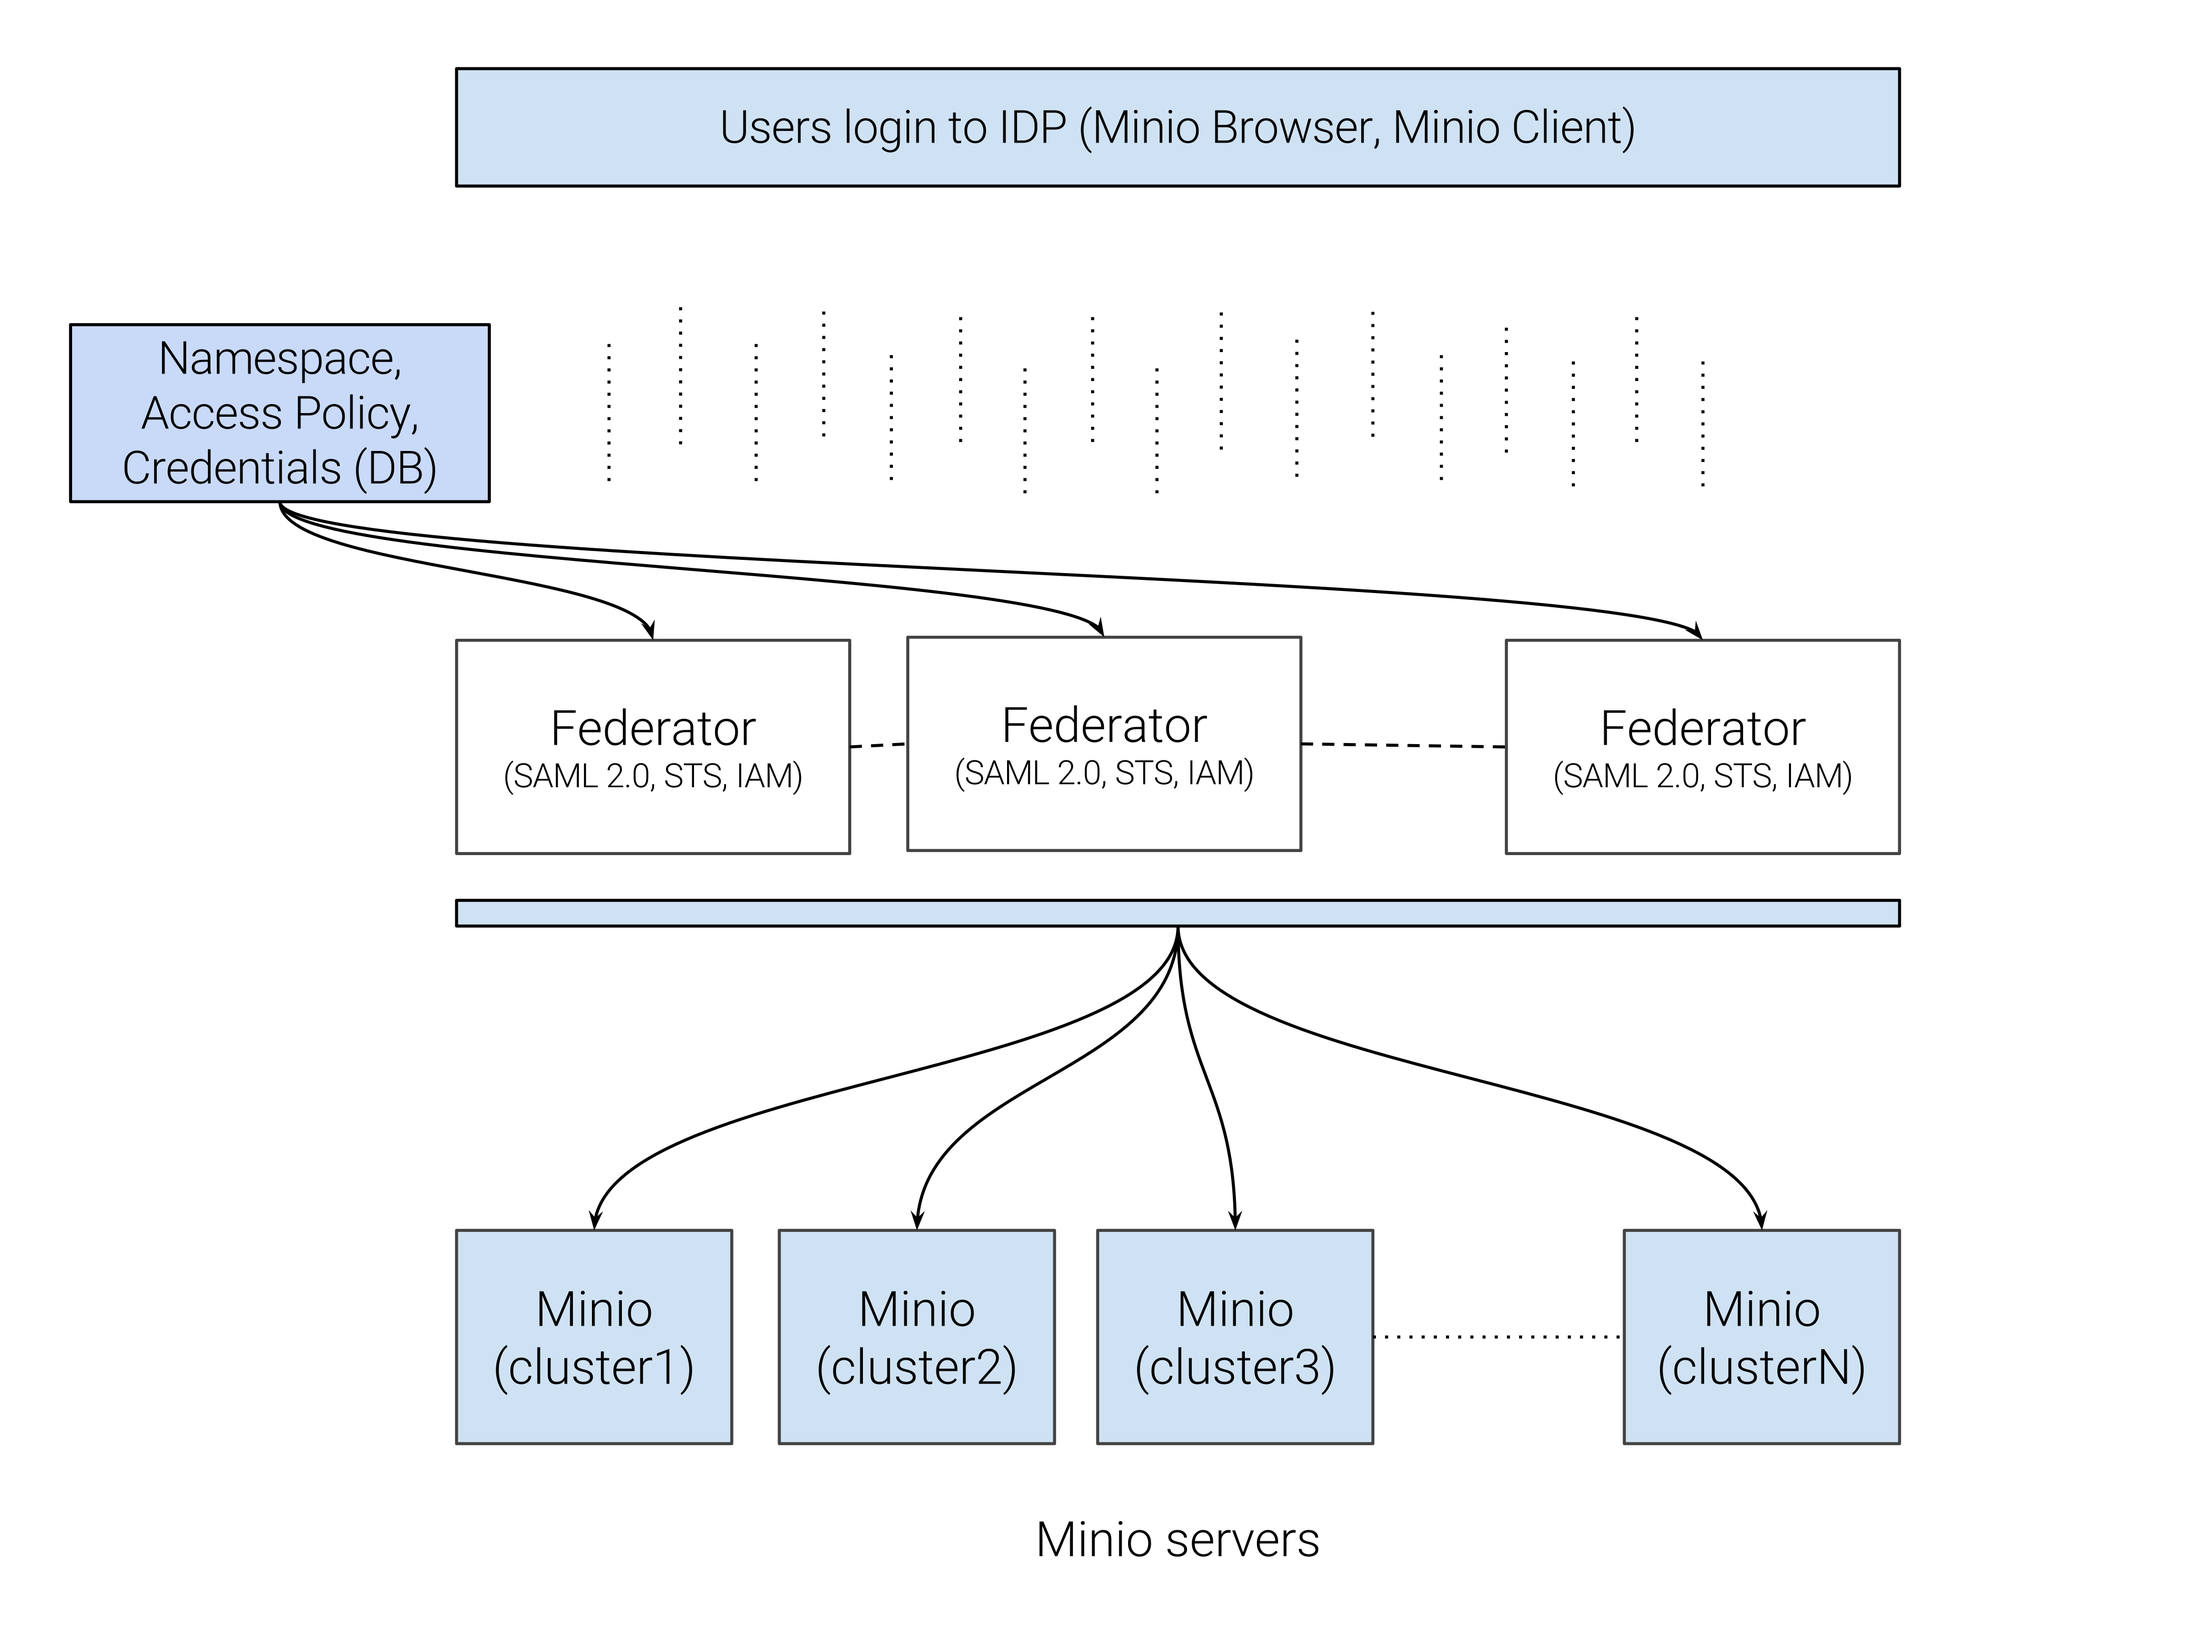
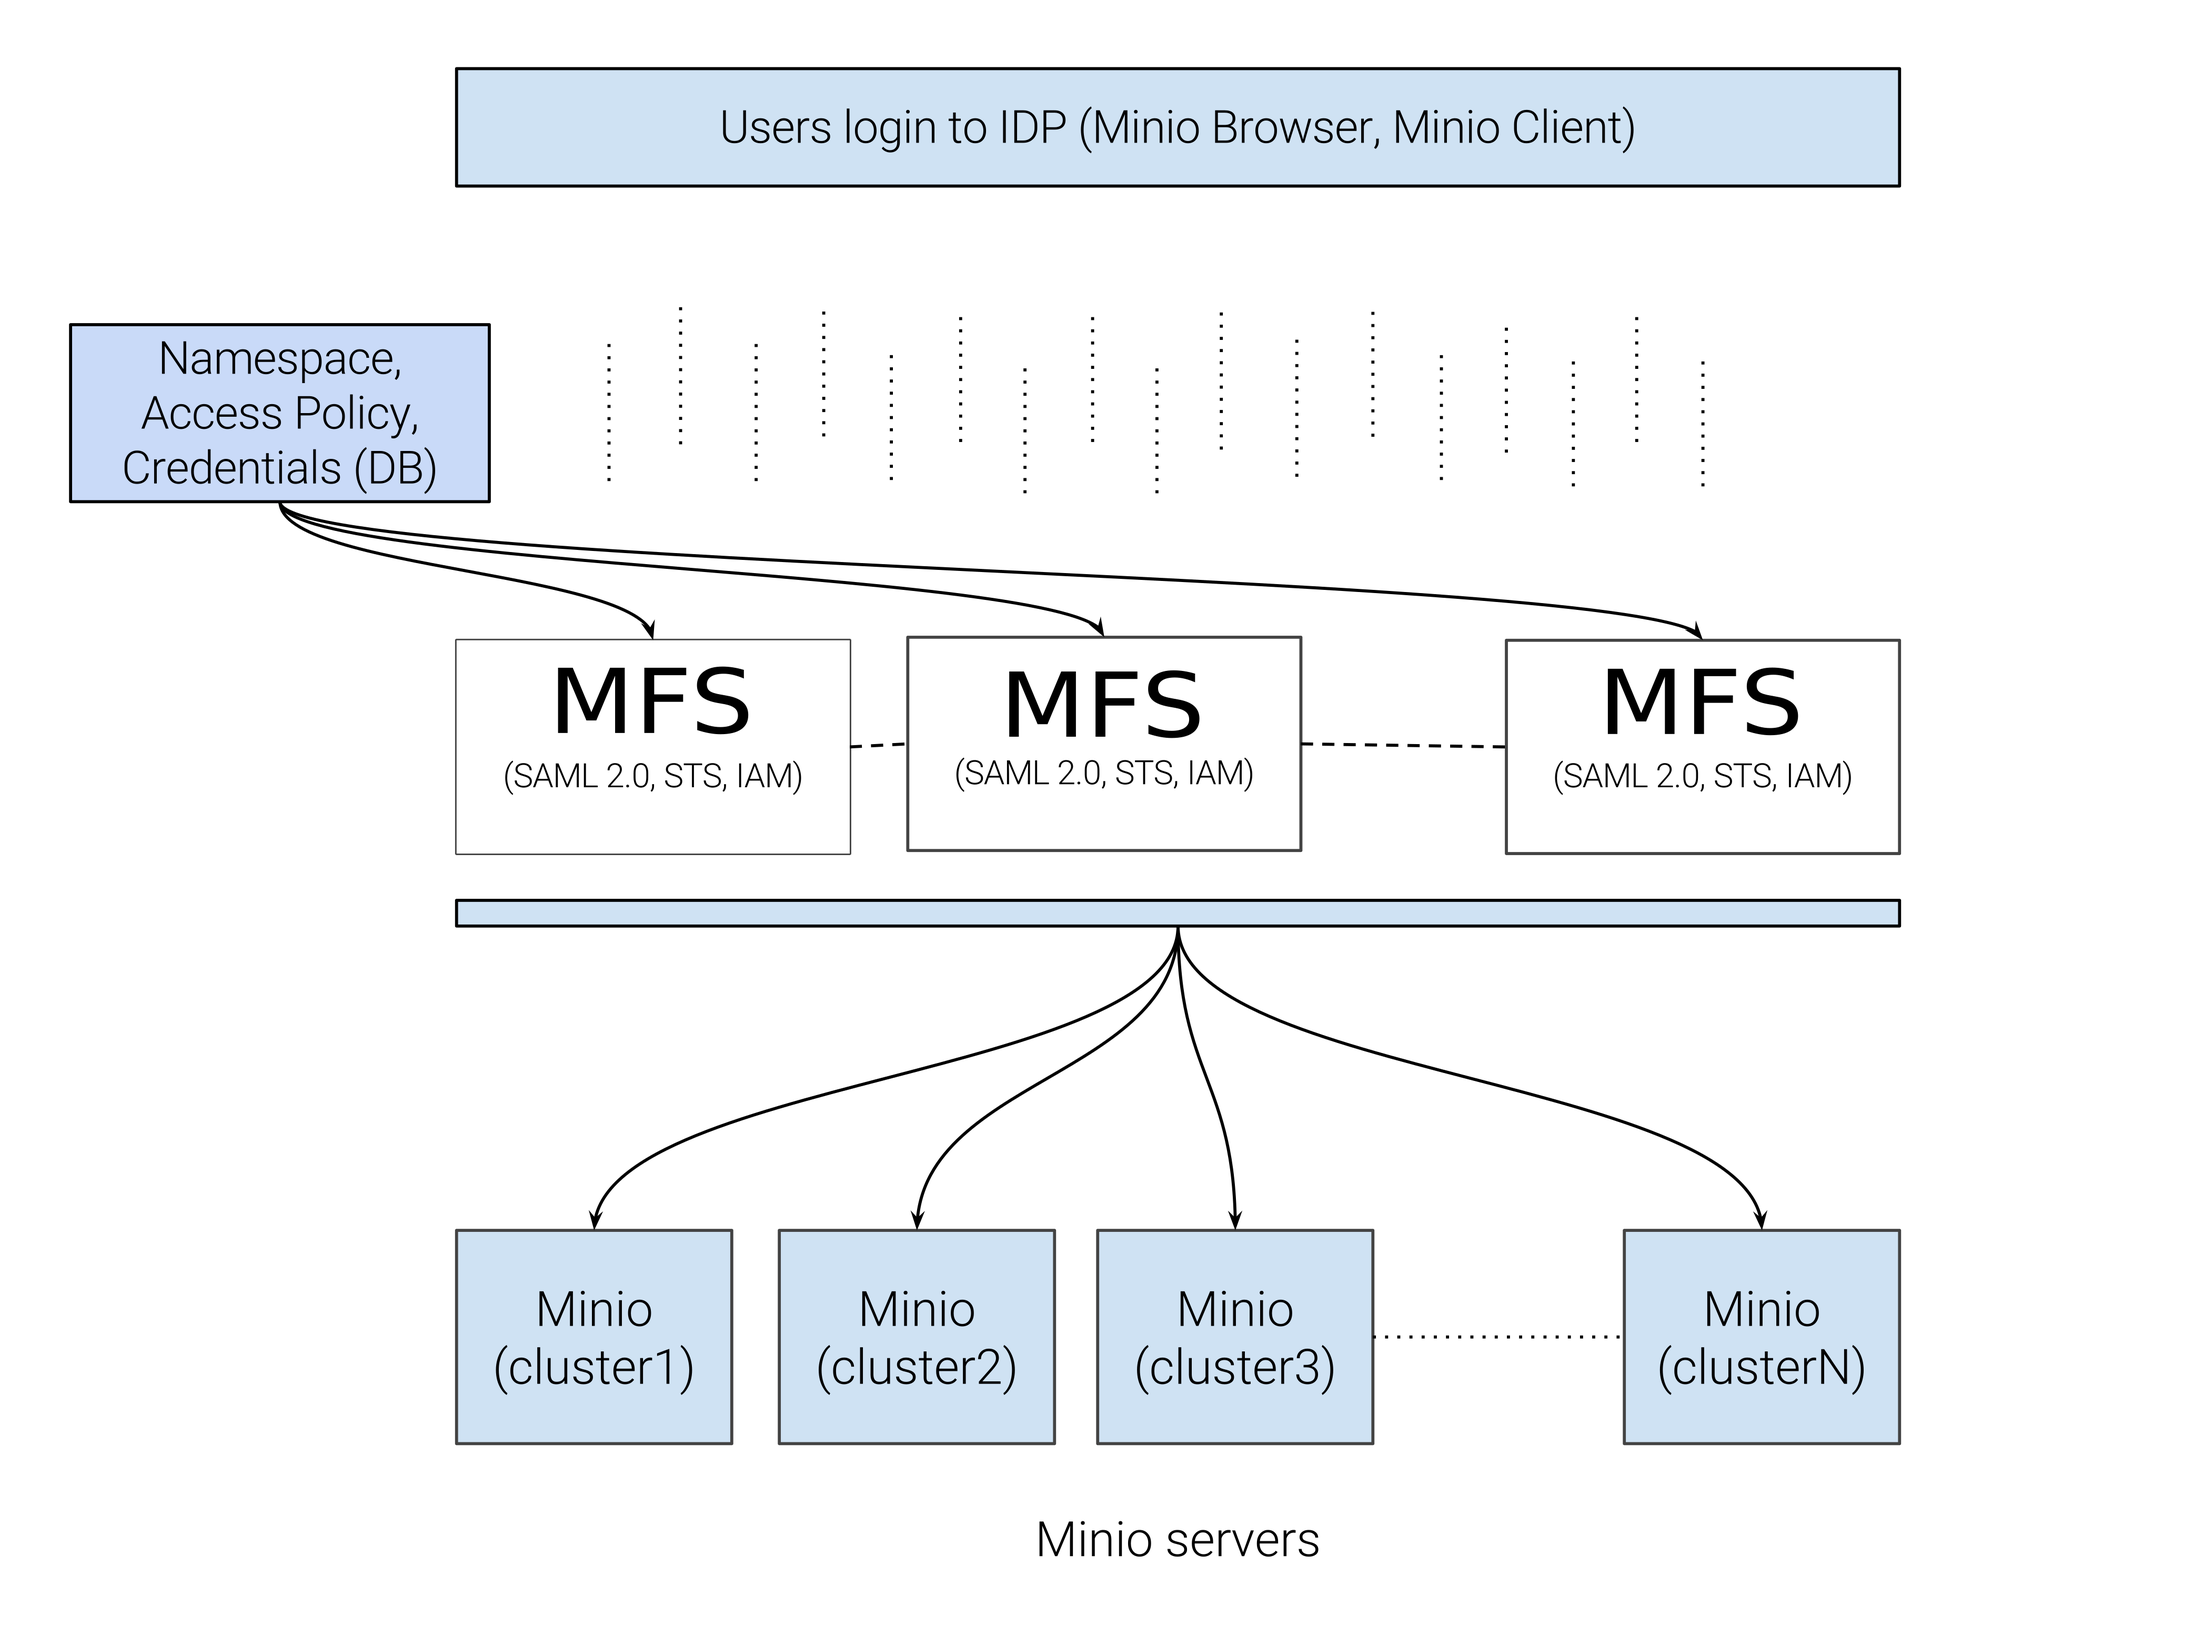
Rename the project

Changed region(s): [[0.7174, 0.4034, 0.8421, 0.4655], [0.4367, 0.4034, 0.5614, 0.4655], [0.2495, 0.4034, 0.3431, 0.4655]]

diff --git a/README.md b/README.md
@@ -1,5 +1,5 @@
-# Federator
-[![Slack](https://slack.minio.io/slack?type=svg)](https://slack.minio.io) [![Go Report Card](https://goreportcard.com/badge/minio/federator)](https://goreportcard.com/report/minio/federator)
+# mfs (Minio Federation Service)
+[![Slack](https://slack.minio.io/slack?type=svg)](https://slack.minio.io) [![Go Report Card](https://goreportcard.com/badge/minio/mfs   )](https://goreportcard.com/report/minio/mfs)
 
 This project is a work in progress.
 
